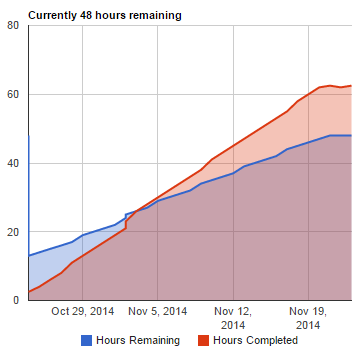
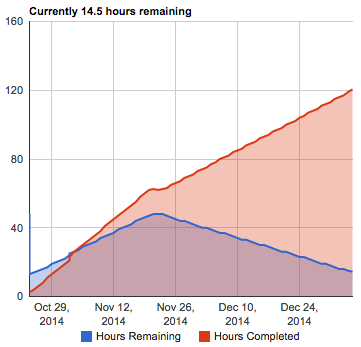
Mark up ownership in design/imp

diff --git a/Report/chapters/evaluation.tex b/Report/chapters/evaluation.tex
@@ -202,33 +202,41 @@ Unleash the bullshit
 
 As stated on our value proposition canvas, the opportunity for students to collaborate with other students or G-Research employees when playing AI Racing market could be incredibly valuable. For example, a G-Research employee could use the opportunity to demonstrate how they work collaboratively on a daily basis - this is a more informative insight into how G-Research works than any dustbin-destined panflet.
 
-To gauge whether collaboration worked with the AI Racing Market, we introduced individuals (of varying programming ability) to the game and pair-programmed to iteratively produce an advanced script. We did this with individuals of different programming ability levels, for example : a second-year Computing student (advanced), third-year Geophysics student (intermediate). and two secondary-school students (inexperienced). 
+To gauge whether collaboration worked with the AI Racing Market, we introduced individuals (of varying programming ability) to the game and pair-programmed to iteratively produce an advanced script. We did this with individuals of different programming ability levels, for example : a second-year Computing student (advanced), third-year Geophysics student (intermediate), and two secondary-school students (inexperienced). 
 
 \subsubsection{Key Observations}
 
 Unleash the bullshit
 
-\section{Metrics \bf NEEDS MAJOR WORK}
-Metrics are an important part of the feedback process. They will allow us to easily understand which parts of the workflow are going right and wrong, in order for us to improve working efficiency. They also allow us to see if our product is working as intended, and what parts need changing - either because they don't work or as part of general improvement.
+\section{Metrics}
+Metrics were a useful part of the feedback process for two reasons. First, they allowed us to easily understand which parts of our workflow were going right and wrong, helping us improve working efficiency. Second, they allowed us to see if our product was working as intended, and recognise parts that needed changing - be it because they do not work or as part of general improvements.
 
 \subsection{Workflow Metrics}
-Our tasks on Trello currently have story points associated with them, which work as measures of task complexity. We can use this to graph how much work our team can complete in an average iteration, and see if there are any anomalies (which would probably be due to other coursework). We can also use this data to create burndown charts, which allows us to see whether we are going to complete our project on time or whether we will need to adjust our plan accordingly. 
+Our tasks on Trello had story points associated with them, as measures of task complexity. We followed these to gauge how much our team could complete in an average iteration, and see if there were any anomalies (which were often due to other coursework). In particular, we created burndown charts, allowing us to see whether we were going to complete our project on time or whether we would need to adjust our plan accordingly. 
 
-\begin{center}
-\includegraphics[scale=0.7]{burndown.png}
-\end{center}
+\begin{figure}[h]
+\makebox[\textwidth]
+{
+	\includegraphics[width=0.49\textwidth]{burndownold.png}
+	\hfill    
+	\includegraphics[width=0.49\textwidth]{burndown.png}
+}
+\caption{Burndown charts as project progressed to final sprint (right hand side)}
+\end{figure}
 
-Creating this graph reveals an alarming trend of an increase in the number of hours remaining. However, this is due to the extra stories we bring into scope after our meetings with our customer go well - so it is not an immediate cause for concern. Reassuringly, our hours completed is fairly linear so we can clearly estimate how productive our team is each week. This makes planning for future weeks simpler as we have a strong idea of how much we can achieve (20 story points).
+Creating this graph initially revealed an alarming trend of an increase in the number of hours remaining (see left hand side of figure 4.1). However it was not an immediate cause for concern; this was due to extra stories being brought into scope after successful meetings with our customer, where we had exceed expectations and taken on stretch requirements. Reassuringly, our hours completed was fairly linear at this early stage; this helped us estimate how productive our team was each week ($\sim$10 story points) and simplify planning for the following sprints. As shown on the right hand side of figure 4.1, we eventually reached a final set of requirements and progressed at a similar working rate of towards the end of our final sprint. 
 
 \subsection{Product Metrics}
-We need to be able to evaluate how good a feature is, and quantitatively measure this so we can use it as feedback. There are a few methods for achieving this - for instance, for the website, we can record how long a user spends on a particular page, or how often they visit said page - this represents how popular the feature on the page is. 
 
-It is also useful to determine what exactly users want, and whether we have provided that for them or not. This is usually best implemented as a search function, where we can then see what users searched for against what page they ended up with; however, since this feature isn't required for our product, we will instead have to use more direct methods such as user surveys, or perhaps a direct feature request button.
 
-On this note, it would also be useful to determine which parts of the product the good candidates look at versus what parts everyone looks at, since this indicates what is interesting to the the type of people G-research want to hire, and means we can focus our development time on improving these parts in particular. For example, a strong candidate may take the time to fully understand the documentation, and would probably be able to improve on existing scripts easily.
-
-We also need to know how interested people are in general - in this case it can be useful to determine how long a user spends against how long they want to spend. For this, we'd need a ratio of the total time spent at the stall and how long the spend writing/racing AI scripts - perhaps they'd want some time to speak to a recruiter but the time spent writing a script was so long they didn't really have a chance, or wanted to move on to other things.
-
-The racing game is a good opportunity to record various statistics about the user. For instance, when starting the game, we can record which car models and racetracks are played the most, and how many players are commonly in one race. This is useful in deciding what the default settings should be, and also optimising the game for the most common amount of players.
+%We need to be able to evaluate how good a feature is, and quantitatively measure this so we can use it as feedback. There are a few methods for achieving this - for instance, for the website, we can record how long a user spends on a particular page, or how often they visit said page - this represents how popular the feature on the page is. 
+%
+%It is also useful to determine what exactly users want, and whether we have provided that for them or not. This is usually best implemented as a search function, where we can then see what users searched for against what page they ended up with; however, since this feature isn't required for our product, we will instead have to use more direct methods such as user surveys, or perhaps a direct feature request button.
+%
+%On this note, it would also be useful to determine which parts of the product the good candidates look at versus what parts everyone looks at, since this indicates what is interesting to the the type of people G-research want to hire, and means we can focus our development time on improving these parts in particular. For example, a strong candidate may take the time to fully understand the documentation, and would probably be able to improve on existing scripts easily.
+%
+%We also need to know how interested people are in general - in this case it can be useful to determine how long a user spends against how long they want to spend. For this, we'd need a ratio of the total time spent at the stall and how long the spend writing/racing AI scripts - perhaps they'd want some time to speak to a recruiter but the time spent writing a script was so long they didn't really have a chance, or wanted to move on to other things.
+%
+%The racing game is a good opportunity to record various statistics about the user. For instance, when starting the game, we can record which car models and racetracks are played the most, and how many players are commonly in one race. This is useful in deciding what the default settings should be, and also optimising the game for the most common amount of players.
 
 

diff --git a/Report/chapters/design_and_implementation.tex b/Report/chapters/design_and_implementation.tex
@@ -31,7 +31,7 @@ Anticipation \& Mitigation
 \subsection{Challenges}
 Solutions
 
-\section{Browser Front-End}
+\section{Browser Front-End {\color{red} TOM}}
 Tech used:
 \begin{itemize}
 \item Jade 
@@ -77,7 +77,7 @@ steering and throttle control for control. Proximity sensors (ray casting) for p
 
 Solutions
 
-\section{User Interface Design. TODO: Add some of "evaluation" section here?}
+\section{User Interface Design. TODO: Add some of "evaluation" section here? {\color{red} TOM}}
 Aims:
 \begin{itemize}
 \item Easy to navigate (hence bootstrap for simple familiar website) 
